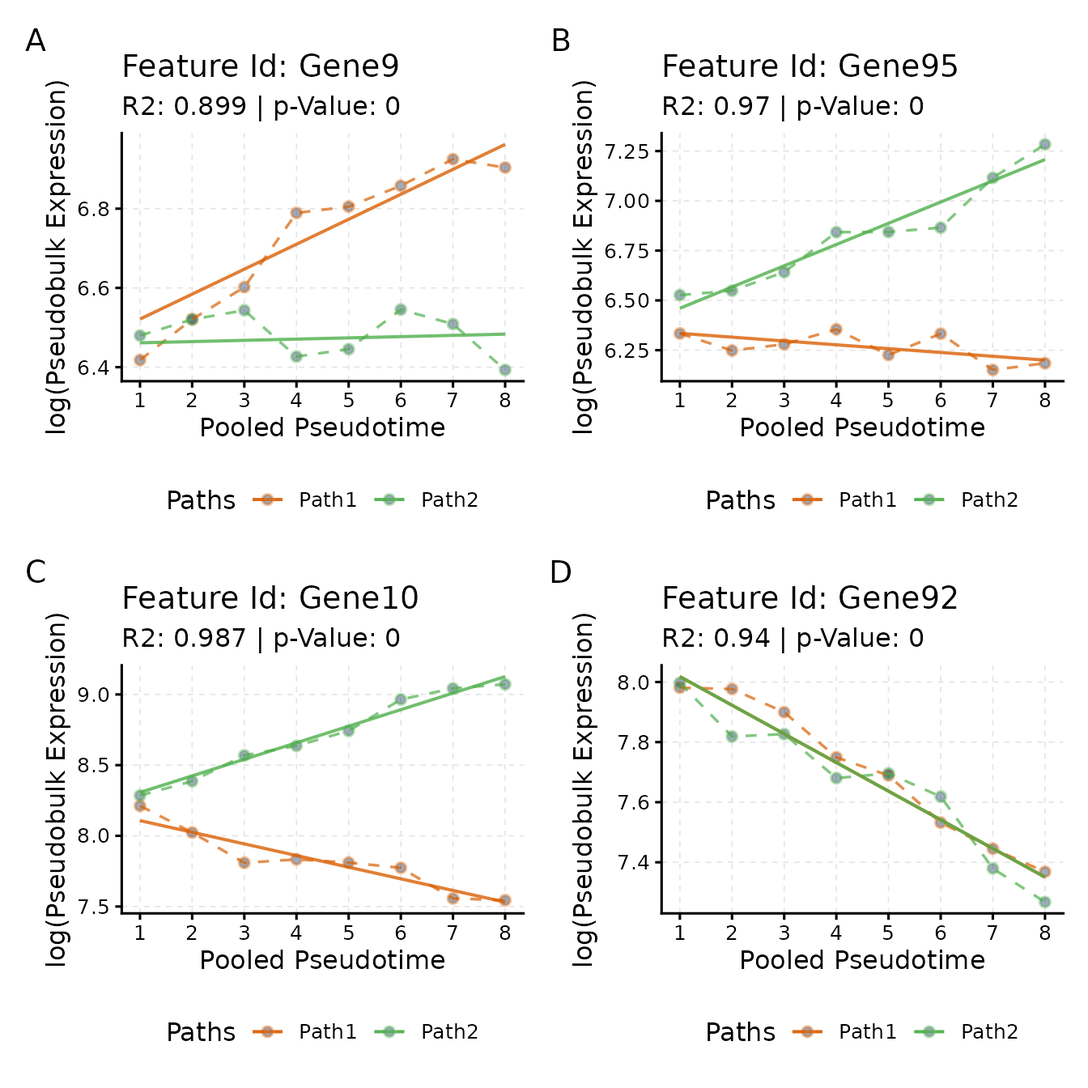
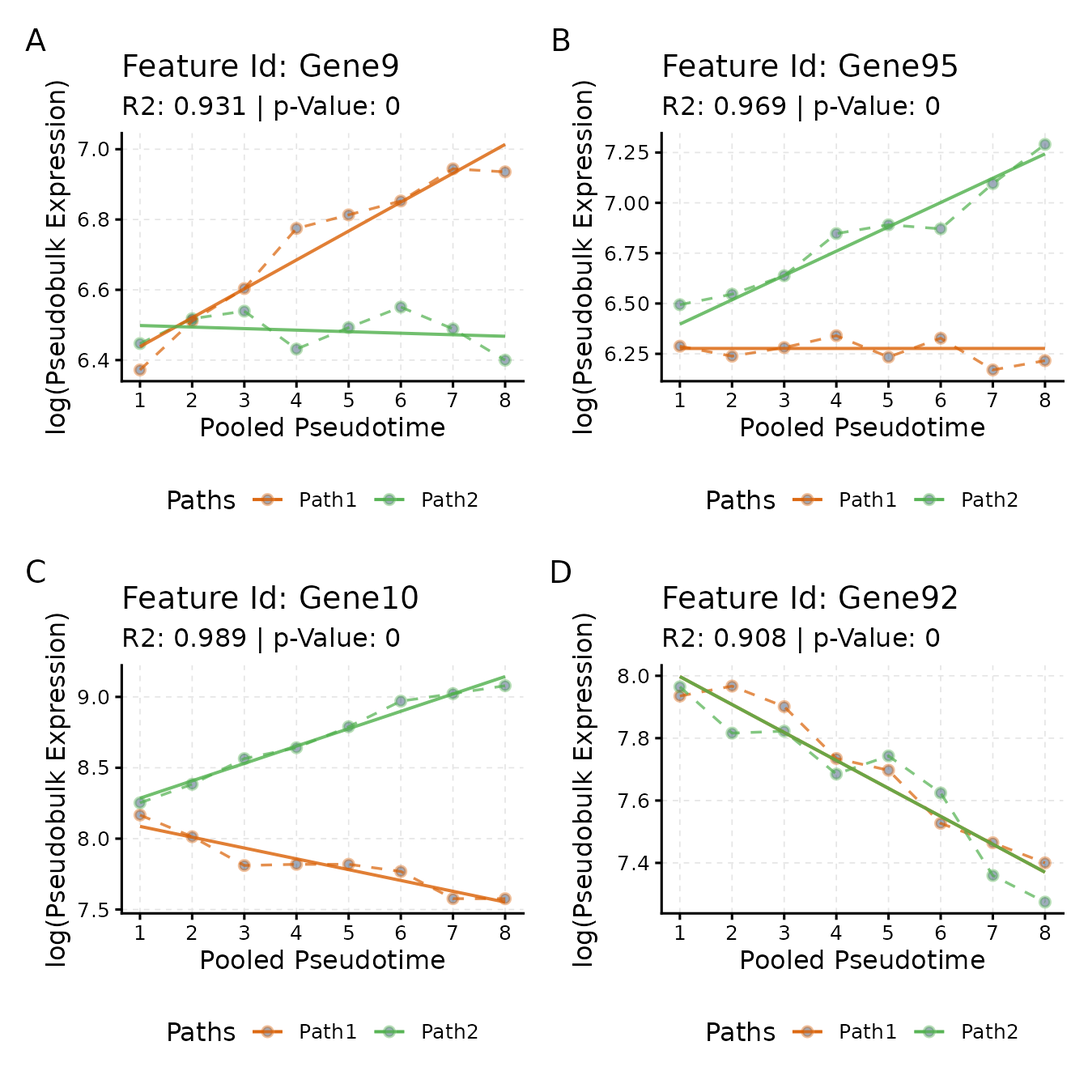
Deploying to gh-pages from @ spriyansh/scMaSigPro@2f24aa1d3274ee7afd888d2690c6e490eac4ce49 🚀

diff --git a/reference/scmpResults.html b/reference/scmpResults.html
@@ -142,12 +142,12 @@ left out. It stops if no gene matches.</p>
 <span class="r-out co"><span class="r-pr">#&gt;</span> DataFrame with 6 rows and 9 columns</span>
 <span class="r-out co"><span class="r-pr">#&gt;</span>           p_value adj_p_value  non_flat model_p_value r_squared influential</span>
 <span class="r-out co"><span class="r-pr">#&gt;</span>         &lt;numeric&gt;   &lt;numeric&gt; &lt;logical&gt;     &lt;numeric&gt; &lt;numeric&gt;   &lt;logical&gt;</span>
-<span class="r-out co"><span class="r-pr">#&gt;</span> Gene1 2.24231e-01 3.44971e-01     FALSE            NA        NA       FALSE</span>
-<span class="r-out co"><span class="r-pr">#&gt;</span> Gene2 1.29657e-13 4.80210e-13      TRUE   5.28134e-10  0.739054       FALSE</span>
-<span class="r-out co"><span class="r-pr">#&gt;</span> Gene3 2.47702e-24 1.17953e-23      TRUE   1.14934e-20  0.875897       FALSE</span>
-<span class="r-out co"><span class="r-pr">#&gt;</span> Gene4 1.33865e-55 1.21696e-54      TRUE   1.16032e-56  0.947483       FALSE</span>
-<span class="r-out co"><span class="r-pr">#&gt;</span> Gene5 3.51890e-02 6.63943e-02     FALSE            NA        NA       FALSE</span>
-<span class="r-out co"><span class="r-pr">#&gt;</span> Gene6 5.84810e-01 7.21988e-01     FALSE            NA        NA       FALSE</span>
+<span class="r-out co"><span class="r-pr">#&gt;</span> Gene1 2.21646e-01 3.46322e-01     FALSE            NA        NA       FALSE</span>
+<span class="r-out co"><span class="r-pr">#&gt;</span> Gene2 1.30835e-13 4.84576e-13      TRUE   1.60139e-09  0.726015       FALSE</span>
+<span class="r-out co"><span class="r-pr">#&gt;</span> Gene3 2.51249e-24 1.14204e-23      TRUE   3.98589e-20  0.873163       FALSE</span>
+<span class="r-out co"><span class="r-pr">#&gt;</span> Gene4 1.96112e-56 1.96112e-55      TRUE   1.23046e-66  0.955362       FALSE</span>
+<span class="r-out co"><span class="r-pr">#&gt;</span> Gene5 6.16240e-02 1.04447e-01     FALSE            NA        NA       FALSE</span>
+<span class="r-out co"><span class="r-pr">#&gt;</span> Gene6 5.80848e-01 7.21780e-01     FALSE            NA        NA       FALSE</span>
 <span class="r-out co"><span class="r-pr">#&gt;</span>       sig_Path2vsPath1 sig_Path1   cluster</span>
 <span class="r-out co"><span class="r-pr">#&gt;</span>              &lt;logical&gt; &lt;logical&gt; &lt;integer&gt;</span>
 <span class="r-out co"><span class="r-pr">#&gt;</span> Gene1            FALSE     FALSE        NA</span>
@@ -162,20 +162,20 @@ left out. It stops if no gene matches.</p>
 <span class="r-out co"><span class="r-pr">#&gt;</span> DataFrame with 6 rows and 9 columns</span>
 <span class="r-out co"><span class="r-pr">#&gt;</span>             p_value  adj_p_value  non_flat model_p_value r_squared influential</span>
 <span class="r-out co"><span class="r-pr">#&gt;</span>           &lt;numeric&gt;    &lt;numeric&gt; &lt;logical&gt;     &lt;numeric&gt; &lt;numeric&gt;   &lt;logical&gt;</span>
-<span class="r-out co"><span class="r-pr">#&gt;</span> Gene10 5.66016e-239 5.66016e-237      TRUE  9.21270e-219  0.987161       FALSE</span>
-<span class="r-out co"><span class="r-pr">#&gt;</span> Gene51 8.28782e-168 4.14391e-166      TRUE  2.39268e-104  0.975620       FALSE</span>
-<span class="r-out co"><span class="r-pr">#&gt;</span> Gene72  2.67274e-82  4.45456e-81      TRUE  1.46454e-101  0.975004       FALSE</span>
-<span class="r-out co"><span class="r-pr">#&gt;</span> Gene95 1.30299e-103 4.34331e-102      TRUE   8.35179e-92  0.969851       FALSE</span>
-<span class="r-out co"><span class="r-pr">#&gt;</span> Gene15  2.69805e-66  2.99783e-65      TRUE   1.65400e-74  0.966598       FALSE</span>
-<span class="r-out co"><span class="r-pr">#&gt;</span> Gene46  6.51202e-82  9.30289e-81      TRUE   5.52458e-80  0.965478       FALSE</span>
+<span class="r-out co"><span class="r-pr">#&gt;</span> Gene10 8.34110e-248 8.34110e-246      TRUE  7.18412e-269  0.989436       FALSE</span>
+<span class="r-out co"><span class="r-pr">#&gt;</span> Gene51 5.22783e-176 2.61392e-174      TRUE  5.22783e-176  0.985444       FALSE</span>
+<span class="r-out co"><span class="r-pr">#&gt;</span> Gene18  4.03251e-90  8.06502e-89      TRUE   1.78301e-94  0.971161       FALSE</span>
+<span class="r-out co"><span class="r-pr">#&gt;</span> Gene86  1.35821e-90  3.39552e-89      TRUE   9.68258e-97  0.970970       FALSE</span>
+<span class="r-out co"><span class="r-pr">#&gt;</span> Gene46  1.63491e-80  2.33559e-79      TRUE   1.14734e-86  0.968460       FALSE</span>
+<span class="r-out co"><span class="r-pr">#&gt;</span> Gene72  5.81817e-83  9.69695e-82      TRUE   2.55237e-69  0.961039       FALSE</span>
 <span class="r-out co"><span class="r-pr">#&gt;</span>        sig_Path2vsPath1 sig_Path1   cluster</span>
 <span class="r-out co"><span class="r-pr">#&gt;</span>               &lt;logical&gt; &lt;logical&gt; &lt;integer&gt;</span>
 <span class="r-out co"><span class="r-pr">#&gt;</span> Gene10             TRUE      TRUE         2</span>
 <span class="r-out co"><span class="r-pr">#&gt;</span> Gene51             TRUE      TRUE         2</span>
+<span class="r-out co"><span class="r-pr">#&gt;</span> Gene18             TRUE      TRUE         3</span>
+<span class="r-out co"><span class="r-pr">#&gt;</span> Gene86             TRUE      TRUE         3</span>
+<span class="r-out co"><span class="r-pr">#&gt;</span> Gene46             TRUE      TRUE         3</span>
 <span class="r-out co"><span class="r-pr">#&gt;</span> Gene72             TRUE      TRUE         2</span>
-<span class="r-out co"><span class="r-pr">#&gt;</span> Gene95             TRUE      TRUE         2</span>
-<span class="r-out co"><span class="r-pr">#&gt;</span> Gene15             TRUE      TRUE         2</span>
-<span class="r-out co"><span class="r-pr">#&gt;</span> Gene46             TRUE      TRUE         1</span>
 <span class="r-in"><span></span></span>
 <span class="r-in"><span><span class="co"># scmp.ob was made from the bundled splat.sim data set</span></span></span>
 <span class="r-in"><span><span class="fu"><a href="https://rdrr.io/r/utils/data.html" class="external-link">data</a></span><span class="op">(</span><span class="st">"splat.sim"</span>, package <span class="op">=</span> <span class="st">"scMaSigPro"</span><span class="op">)</span></span></span>
@@ -184,12 +184,12 @@ left out. It stops if no gene matches.</p>
 <span class="r-out co"><span class="r-pr">#&gt;</span> DataFrame with 6 rows and 2 columns</span>
 <span class="r-out co"><span class="r-pr">#&gt;</span>              Gene scmp_p_value</span>
 <span class="r-out co"><span class="r-pr">#&gt;</span>       &lt;character&gt;    &lt;numeric&gt;</span>
-<span class="r-out co"><span class="r-pr">#&gt;</span> Gene1       Gene1  2.24231e-01</span>
-<span class="r-out co"><span class="r-pr">#&gt;</span> Gene2       Gene2  1.29657e-13</span>
-<span class="r-out co"><span class="r-pr">#&gt;</span> Gene3       Gene3  2.47702e-24</span>
-<span class="r-out co"><span class="r-pr">#&gt;</span> Gene4       Gene4  1.33865e-55</span>
-<span class="r-out co"><span class="r-pr">#&gt;</span> Gene5       Gene5  3.51890e-02</span>
-<span class="r-out co"><span class="r-pr">#&gt;</span> Gene6       Gene6  5.84810e-01</span>
+<span class="r-out co"><span class="r-pr">#&gt;</span> Gene1       Gene1  2.21646e-01</span>
+<span class="r-out co"><span class="r-pr">#&gt;</span> Gene2       Gene2  1.30835e-13</span>
+<span class="r-out co"><span class="r-pr">#&gt;</span> Gene3       Gene3  2.51249e-24</span>
+<span class="r-out co"><span class="r-pr">#&gt;</span> Gene4       Gene4  1.96112e-56</span>
+<span class="r-out co"><span class="r-pr">#&gt;</span> Gene5       Gene5  6.16240e-02</span>
+<span class="r-out co"><span class="r-pr">#&gt;</span> Gene6       Gene6  5.80848e-01</span>
 <span class="r-in"><span></span></span>
 </code></pre></div>
     </div>

diff --git a/news/index.html b/news/index.html
@@ -86,6 +86,7 @@
 <code><a href="../reference/plotTrendCluster.html">plotTrendCluster()</a></code> loses its <code>parallel</code> argument, which had no effect; delete it from calls.</li>
 <li>
 <code>ScMaSigPro</code> objects have a new <code>version</code> slot, the version of scMaSigPro that created them, and an <code><a href="https://rdrr.io/pkg/BiocGenerics/man/updateObject.html" class="external-link">updateObject()</a></code> method brings objects saved by earlier versions up to date. An object saved with <code><a href="https://rdrr.io/r/base/readRDS.html" class="external-link">saveRDS()</a></code> or <code><a href="https://rdrr.io/r/base/save.html" class="external-link">save()</a></code> by scMaSigPro 0.0.5 or earlier has no <code>version</code> slot: printing it says so, the steps, <code><a href="../reference/pb_counts.html">pb_counts()</a></code>, the plots, <code><a href="../reference/queryCoeff.html">queryCoeff()</a></code> and the <code>show*()</code> helpers stop with “update it with updateObject() first”, and the setters stop with “slots in class definition but not in object:”version”“, until it is updated, for example with <code>ob &lt;- updateObject(readRDS("ob.rds"))</code>. Its data and results are kept. Objects binned by 0.0.4 cannot be updated because their <code>Dense</code> slot is invalid; <code><a href="https://rdrr.io/pkg/BiocGenerics/man/updateObject.html" class="external-link">updateObject()</a></code> stops with the command that bins their cells again with <code><a href="../reference/sc.squeeze.html">sc.squeeze()</a></code>, which replaces the 0.0.5 advice to run <code><a href="../reference/sc.squeeze.html">sc.squeeze()</a></code> on them directly. The bundled <code>scmp.ob</code> dataset is regenerated with the slot; its other slots are identical.</li>
+<li>The <code>log_offset</code> argument of <code><a href="../reference/sc.p.vector.html">sc.p.vector()</a></code> and <code><a href="../reference/sc.t.fit.html">sc.t.fit()</a></code> and the <code>log_offset</code> parameter are removed; delete <code>log_offset =</code> from calls. Objects saved with the parameter stop the steps with “update it with updateObject() first”. <code><a href="https://rdrr.io/pkg/BiocGenerics/man/updateObject.html" class="external-link">updateObject()</a></code> removes it and, when it was <code>FALSE</code>, replaces the stored size factors by their logarithm and warns that the fits must be run again.</li>
 </ul></li>
 <li>Changes affecting results
 <ul><li>The version number moves from 0.0.5 to 0.6.0, a minor release, because the changes in this section change the results of some analyses.</li>
@@ -102,7 +103,11 @@
 <li>
 <code>sc.squeeze(prune_bins = TRUE)</code> removes the bins of a path that hold fewer cells than the mean minus the standard deviation of the sizes of the path’s initial bins, empty bins included. The limit is no longer computed over the bins of all paths together after the split, nor made positive with <code><a href="https://rdrr.io/r/base/MathFun.html" class="external-link">abs()</a></code>.</li>
 <li>
-<code><a href="../reference/sc.squeeze.html">sc.squeeze()</a></code> with <code>bin_method = "Sturges"</code> rounds log2(n) + 1 up to a whole number of bins before it multiplies it by <code>drop_fac</code>, and rounds the product up as before; the bins of a split are counted the same way. The other rules, and <code>drop_fac = 1</code>, give the same number of bins as before.</li>
+<code><a href="../reference/sc.squeeze.html">sc.squeeze()</a></code> with <code>bin_method = "Sturges"</code> multiplies log2(n) + 1 by <code>drop_fac</code> and rounds the product up, as for the other rules, also for the bins of a split; it no longer rounds log2(n) + 1 up before <code>drop_fac</code>.</li>
+<li>The offset of <code><a href="../reference/sc.p.vector.html">sc.p.vector()</a></code> and <code><a href="../reference/sc.t.fit.html">sc.t.fit()</a></code> is the logarithm of the size factor of each bin. With the default <code>log_offset = FALSE</code> it was the size factor itself.</li>
+<li>
+<code><a href="../reference/sc.t.fit.html">sc.t.fit()</a></code> uses the offset that <code><a href="../reference/sc.p.vector.html">sc.p.vector()</a></code> computed from every gene it fitted and stored in the <code>Design</code> slot, instead of computing the size factors again from the non-flat genes. It computes the offset in the same way when the object has none.</li>
+<li>With <code>offset = TRUE</code>, <code><a href="../reference/sc.p.vector.html">sc.p.vector()</a></code> and <code><a href="../reference/sc.t.fit.html">sc.t.fit()</a></code> fit the raw counts, and the size factors are computed from the raw counts by the median-of-ratios method, over the genes without a zero count. Both used the counts plus 1. When every gene has a zero count in some bin, <code><a href="../reference/sc.p.vector.html">sc.p.vector()</a></code> stops with an error that suggests fewer bins or <code>offset = FALSE</code>.</li>
 </ul></li>
 <li>New features
 <ul><li>
@@ -193,6 +198,8 @@
 <code>sc.squeeze(split_bins = TRUE)</code> no longer removes cells from the object. A bin with too many cells was split between the rounded bounds of the labels of <code><a href="https://rdrr.io/r/base/cut.html" class="external-link">cut()</a></code>, so a cell just outside them was in none of the new bins and was removed from the <code>Sparse</code> slot with the warning “cell(s) could not be assigned to a bin”: 3 of the 1977 cells of <code>multi.lin.sce</code> with the default rule and up to 212 with the others. When the rounded bounds of a bin held none of its cells, the split failed with “‘from’ must be a finite number”. The new bins of a split now hold every cell of the bin they split, and cover it without gaps: the first starts at its lower bound and the last ends at its upper bound, where they spanned only the range of its cells.</li>
 <li>
 <code>sc.squeeze(split_bins = TRUE)</code> failed with “missing value where TRUE/FALSE needed” when the rule gave a path a single bin, as <code>"Freedman.Diaconis"</code> does for a path whose pseudotime has an interquartile range of 0: a split takes the bins larger than the mean plus the standard deviation of the bin sizes of their path, and the size of a single bin has no standard deviation. Such a path now keeps its bin.</li>
+<li>
+<code>sc.p.vector(offset = FALSE)</code> and <code>sc.t.fit(offset = FALSE)</code> no longer leave the offset of an earlier fit in the <code>Design</code> slot, and <code><a href="../reference/sc.set.poly.html">sc.set.poly()</a></code> stores no offset. <code><a href="../reference/plotTrend.html">plotTrend()</a></code> and <code><a href="../reference/plotTrendCluster.html">plotTrendCluster()</a></code> divide the points by the size factors only when the fits used the offset; they divided them by an offset left by an earlier fit. <code><a href="https://rdrr.io/pkg/BiocGenerics/man/updateObject.html" class="external-link">updateObject()</a></code> removes such offsets from saved objects.</li>
 </ul></li>
 <li>Dependency Changes
 <ul><li>

diff --git a/articles/Common-Root-Cells.html b/articles/Common-Root-Cells.html
@@ -427,15 +427,15 @@ set.</p>
 <code class="sourceCode R"><span><span class="va">shared_genes</span> <span class="op">&lt;-</span> <span class="fu"><a href="../reference/plotIntersect.html">plotIntersect</a></span><span class="op">(</span><span class="va">multi_scmp_ob_A</span>, return <span class="op">=</span> <span class="cn">TRUE</span><span class="op">)</span></span>
 <span><span class="fu"><a href="https://rdrr.io/r/utils/head.html" class="external-link">head</a></span><span class="op">(</span><span class="va">shared_genes</span><span class="op">)</span></span></code></pre></div>
 <pre><code><span><span class="co">##     Y_15vsRoot Y_18vsRoot Y_18_links_Y_15vsRoot Y_52vsRoot Root</span></span>
-<span><span class="co">## G2           1          1                     1          1    1</span></span>
-<span><span class="co">## G3           1          1                     1          1    1</span></span>
+<span><span class="co">## G1           1          1                     1          1    0</span></span>
+<span><span class="co">## G5           1          1                     1          1    0</span></span>
 <span><span class="co">## G7           1          1                     1          1    1</span></span>
-<span><span class="co">## G9           1          1                     1          1    1</span></span>
-<span><span class="co">## G10          1          1                     1          1    1</span></span>
-<span><span class="co">## G11          1          1                     1          1    1</span></span></code></pre>
+<span><span class="co">## G10          1          0                     1          1    1</span></span>
+<span><span class="co">## G11          1          1                     1          1    0</span></span>
+<span><span class="co">## G12          1          1                     1          1    1</span></span></code></pre>
 <div class="sourceCode" id="cb20"><pre class="downlit sourceCode r">
 <code class="sourceCode R"><span><span class="va">n_shared</span> <span class="op">&lt;-</span> <span class="fu"><a href="https://rdrr.io/r/base/sum.html" class="external-link">sum</a></span><span class="op">(</span><span class="fu"><a href="https://rdrr.io/r/base/colSums.html" class="external-link">rowSums</a></span><span class="op">(</span><span class="va">shared_genes</span><span class="op">)</span> <span class="op">==</span> <span class="fu"><a href="https://rdrr.io/r/base/nrow.html" class="external-link">ncol</a></span><span class="op">(</span><span class="va">shared_genes</span><span class="op">)</span><span class="op">)</span></span></code></pre></div>
-<p>In the upset plot above, we can see that there are 301 genes which
+<p>In the upset plot above, we can see that there are 109 genes which
 change among all branches and also change with pseudotime. We will
 explore them later. First, let’s look at the genes that have similar
 expression in the <code>Root</code>, the link segment and the
@@ -452,17 +452,17 @@ expression in the <code>Root</code>, the link segment and the
 <span>        <span class="va">shared_genes</span><span class="op">$</span><span class="va">Y_18_links_Y_15vsRoot</span> <span class="op">==</span> <span class="fl">0</span></span>
 <span><span class="op">]</span></span>
 <span><span class="fu"><a href="https://rdrr.io/r/utils/head.html" class="external-link">head</a></span><span class="op">(</span><span class="va">gene_br_Y_15</span><span class="op">)</span></span></code></pre></div>
-<pre><code><span><span class="co">## [1] "G71"  "G169"</span></span></code></pre>
+<pre><code><span><span class="co">## [1] "G51"  "G73"  "G149" "G218" "G400" "G422"</span></span></code></pre>
 <div class="sourceCode" id="cb23"><pre class="downlit sourceCode r">
 <code class="sourceCode R"><span><span class="fu"><a href="../reference/plotTrend.html">plotTrend</a></span><span class="op">(</span><span class="va">multi_scmp_ob_A</span>, feature_id <span class="op">=</span> <span class="va">gene_br_Y_15</span><span class="op">[</span><span class="fl">1</span><span class="op">]</span>, points <span class="op">=</span> <span class="cn">FALSE</span>, lines <span class="op">=</span> <span class="cn">TRUE</span><span class="op">)</span></span></code></pre></div>
 <p><img src="Common-Root-Cells_files/figure-html/sample-gene-1.png" class="r-plt" alt="Trend of one gene with similar expression in root, link and Y_15" width="768" style="display: block; margin: auto;"></p>
-<p>In the above plot, we can see that the gene G71 has a similar
+<p>In the above plot, we can see that the gene G51 has a similar
 expression in <code>Root</code>, the link segment and <code>Y_15</code>.
 This is a good example of how <code>scMaSigPro</code> can be used to
 identify genes that show similar patterns in the common root cells and
 how different they are in other branches. The main idea is to set the
 root as a reference and then compare the branches to the root.</p>
-<p>Next we can explore the 301 genes that we have in the intersection.
+<p>Next we can explore the 109 genes that we have in the intersection.
 As it is hard to see them all at once, we will first perform clustering
 and then look at them in groups.</p>
 <div class="sourceCode" id="cb24"><pre class="downlit sourceCode r">

diff --git a/reference/sc.p.vector.html b/reference/sc.p.vector.html
@@ -85,7 +85,6 @@ model.</p>
 <span>  epsilon <span class="op">=</span> <span class="fl">1e-08</span>,</span>
 <span>  verbose <span class="op">=</span> <span class="cn">TRUE</span>,</span>
 <span>  offset <span class="op">=</span> <span class="cn">TRUE</span>,</span>
-<span>  log_offset <span class="op">=</span> <span class="cn">FALSE</span>,</span>
 <span>  max_it <span class="op">=</span> <span class="fl">100</span>,</span>
 <span>  link <span class="op">=</span> <span class="st">"log"</span>,</span>
 <span>  theta_estimate <span class="op">=</span> <span class="st">"none"</span>,</span>
@@ -151,15 +150,10 @@ own link.</p></dd>
 
 <dt id="arg-offset">offset<a class="anchor" aria-label="anchor" href="#arg-offset"></a></dt>
 <dd><p>logical value specifying whether to use offset during fitting.
-The offset, the size factor of each bin (or its logarithm, see
-<code>log_offset</code>), is added to the linear predictor, where it scales the
-fitted mean under the log link only: with any other link the fits stop
-with an error unless <code>offset = FALSE</code>.</p></dd>
-
-
-<dt id="arg-log-offset">log_offset<a class="anchor" aria-label="anchor" href="#arg-log-offset"></a></dt>
-<dd><p>A logical value specifying whether to take the logarithm of
-the offsets.</p></dd>
+The offset of each bin, the logarithm of its size factor (see Details), is
+added to the linear predictor, where it scales the fitted mean under the
+log link only: with any other link the fits stop with an error unless
+<code>offset = FALSE</code>.</p></dd>
 
 
 <dt id="arg-max-it">max_it<a class="anchor" aria-label="anchor" href="#arg-max-it"></a></dt>
@@ -202,7 +196,23 @@ slot.</p>
     </div>
     <div id="details">
     <h2>Details</h2>
-    <p>Genes are left out of the fit when they have fewer than <code>min_na</code> values,
+    <p>With <code>offset = TRUE</code>, the fits include an offset as Srivastava et al.
+(2024), Section 2.3 and Supplementary Section S1.3, describe it:
+"scMaSigPro incorporates an offset value to the Poly-GLM model to adjust
+for disparities in total read counts per bin. This offset is calculated
+as the logarithm of size factors for each bin". The size factors are those
+of the median-of-ratios method of Love, Huber and Anders (2014), on the
+raw counts: "The size factor for each bin is the median of the ratios of
+its counts to the geometric means for each gene". Only the genes with a
+count above 0 in every bin have a geometric mean above 0 and enter the
+medians. The genes are fitted on their raw counts, without a pseudo-count:
+"scMaSigPro can directly process raw counts". When every gene has a zero
+count in some bin, the size factors cannot be computed and the fit stops
+with an error: fewer and larger bins (see <code><a href="sc.squeeze.html">sc.squeeze()</a></code>) can leave genes
+without a zero count, and <code>offset = FALSE</code> fits without the offset. The
+offsets are stored in the <code>Design</code> slot, where <code><a href="sc.t.fit.html">sc.t.fit()</a></code> finds them;
+with <code>offset = FALSE</code> no offset is stored.</p>
+<p>Genes are left out of the fit when they have fewer than <code>min_na</code> values,
 when all their counts are zero, and when they are below <code>min_counts</code> or
 <code>min_bins_expressed</code>. Genes left out have no p-value and do not count in
 the multiple-testing correction; <code><a href="scmpResults.html">scmpResults()</a></code> gives them <code>NA</code>. The size
@@ -216,6 +226,9 @@ only through the multiple-testing correction.</p>
     <p>Conesa, A., Nueda M.J., Alberto Ferrer, A., Talon, T. 2006.
 maSigPro: a Method to Identify Significant Differential Expression Profiles
 in Time-Course Microarray Experiments. Bioinformatics 22, 1096-1102</p>
+<p>Love, M.I., Huber, W. and Anders, S. (2014). Moderated estimation of fold
+change and dispersion for RNA-seq data with DESeq2. Genome Biology 15, 550.
+<a href="https://doi.org/10.1186/s13059-014-0550-8" class="external-link">doi:10.1186/s13059-014-0550-8</a></p>
     </div>
     <div id="see-also">
     <h2>See also</h2>

diff --git a/articles/scMaSigPro-Class.html b/articles/scMaSigPro-Class.html
@@ -407,10 +407,10 @@ rather than their independent contributions.</p></li>
 <span><span class="co"># View</span></span>
 <span><span class="fu"><a href="https://rdrr.io/r/utils/head.html" class="external-link">head</a></span><span class="op">(</span><span class="va">pTime_up</span>, <span class="fl">4</span><span class="op">)</span></span></code></pre></div>
 <pre><code><span><span class="co">##        betascmp_binned_pseudotime</span></span>
-<span><span class="co">## Gene46                 0.11716106</span></span>
-<span><span class="co">## Gene86                 0.11590683</span></span>
-<span><span class="co">## Gene18                 0.08197727</span></span>
-<span><span class="co">## Gene89                 0.06633323</span></span></code></pre>
+<span><span class="co">## Gene46                 0.12313411</span></span>
+<span><span class="co">## Gene86                 0.12192126</span></span>
+<span><span class="co">## Gene18                 0.08788562</span></span>
+<span><span class="co">## Gene9                  0.08220353</span></span></code></pre>
 <div class="sourceCode" id="cb18"><pre class="downlit sourceCode r">
 <code class="sourceCode R"><span><span class="co"># Plot</span></span>
 <span><span class="va">pTime_up.plots</span> <span class="op">&lt;-</span> <span class="fu"><a href="https://rdrr.io/r/base/list.html" class="external-link">list</a></span><span class="op">(</span><span class="op">)</span></span>
@@ -440,10 +440,10 @@ rather than their independent contributions.</p></li>
 <span><span class="co"># View</span></span>
 <span><span class="fu"><a href="https://rdrr.io/r/utils/head.html" class="external-link">head</a></span><span class="op">(</span><span class="va">pTime_path_up</span>, <span class="fl">4</span><span class="op">)</span></span></code></pre></div>
 <pre><code><span><span class="co">##        betascmp_binned_pseudotimexPath2</span></span>
-<span><span class="co">## Gene10                        0.1994188</span></span>
-<span><span class="co">## Gene95                        0.1259134</span></span>
-<span><span class="co">## Gene3                         0.1140589</span></span>
-<span><span class="co">## Gene72                        0.1098556</span></span></code></pre>
+<span><span class="co">## Gene10                        0.1988885</span></span>
+<span><span class="co">## Gene95                        0.1208070</span></span>
+<span><span class="co">## Gene3                         0.1143646</span></span>
+<span><span class="co">## Gene4                         0.1064389</span></span></code></pre>
 <div class="sourceCode" id="cb23"><pre class="downlit sourceCode r">
 <code class="sourceCode R"><span><span class="co"># Plot</span></span>
 <span><span class="va">pTime_path_up.plots</span> <span class="op">&lt;-</span> <span class="fu"><a href="https://rdrr.io/r/base/list.html" class="external-link">list</a></span><span class="op">(</span><span class="op">)</span></span>

diff --git a/reference/sc.t.fit.html b/reference/sc.t.fit.html
@@ -85,7 +85,6 @@ from the full polynomial model. This function is succeeded by
 <span>  epsilon <span class="op">=</span> <span class="va">scmpObj</span><span class="op">@</span><span class="va">Parameters</span><span class="op">@</span><span class="va">epsilon</span>,</span>
 <span>  offset <span class="op">=</span> <span class="va">scmpObj</span><span class="op">@</span><span class="va">Parameters</span><span class="op">@</span><span class="va">offset</span>,</span>
 <span>  verbose <span class="op">=</span> <span class="cn">TRUE</span>,</span>
-<span>  log_offset <span class="op">=</span> <span class="va">scmpObj</span><span class="op">@</span><span class="va">Parameters</span><span class="op">@</span><span class="va">log_offset</span>,</span>
 <span>  max_it <span class="op">=</span> <span class="va">scmpObj</span><span class="op">@</span><span class="va">Parameters</span><span class="op">@</span><span class="va">max_it</span>,</span>
 <span>  link <span class="op">=</span> <span class="va">scmpObj</span><span class="op">@</span><span class="va">Parameters</span><span class="op">@</span><span class="va">link</span>,</span>
 <span>  BPPARAM <span class="op">=</span> <span class="fu">SerialParam</span><span class="op">(</span><span class="op">)</span></span>
@@ -125,17 +124,15 @@ link. When <code><a href="sc.p.vector.html">sc.p.vector()</a></code> estimated o
 
 
 <dt id="arg-offset">offset<a class="anchor" aria-label="anchor" href="#arg-offset"></a></dt>
-<dd><p>A logical value specifying whether to use offset during fitting.
-As in <code><a href="sc.p.vector.html">sc.p.vector()</a></code>, <code>offset = TRUE</code> needs the log link.</p></dd>
+<dd><p>A logical value specifying whether to use offset during
+fitting: the logarithm of the size factor of each bin, which needs the log
+link. The fits use the offsets that <code><a href="sc.p.vector.html">sc.p.vector()</a></code> computed from
+every gene it fitted and stored in the <code>Design</code> slot; when it stored none
+(<code>offset = FALSE</code>), they are computed here in the same way.</p></dd>
 
 
 <dt id="arg-verbose">verbose<a class="anchor" aria-label="anchor" href="#arg-verbose"></a></dt>
 <dd><p>Print detailed output in the console. (Default is TRUE)</p></dd>
-
-
-<dt id="arg-log-offset">log_offset<a class="anchor" aria-label="anchor" href="#arg-log-offset"></a></dt>
-<dd><p>A logical value specifying whether to take the logarithm of
-the offsets.</p></dd>
 
 
 <dt id="arg-max-it">max_it<a class="anchor" aria-label="anchor" href="#arg-max-it"></a></dt>

diff --git a/reference/estBinSize.html b/reference/estBinSize.html
@@ -94,9 +94,9 @@ need to be binned.</p></dd>
 
 <dt id="arg-drop-fac">drop_fac<a class="anchor" aria-label="anchor" href="#arg-drop-fac"></a></dt>
 <dd><p>A numeric. A factor to adjust the estimated number of bins:
-the number of bins given by the rule (for "Sturges", rounded up to a whole
-number) is multiplied by this value. Values below 1 give fewer, wider
-bins, which helps when the rule gives too many empty bins.</p></dd>
+the number of bins given by the rule is multiplied by this value. Values
+below 1 give fewer, wider bins, which helps when the rule gives too many
+empty bins.</p></dd>
 
 
 <dt id="arg-bin-method">bin_method<a class="anchor" aria-label="anchor" href="#arg-bin-method"></a></dt>
@@ -108,8 +108,7 @@ bins. Possible values include "Freedman.Diaconis", "Sqrt", "Sturges",
     <div id="value">
     <h2>Value</h2>
     <p>A number: the number of bins given by the rule, multiplied by <code>drop_fac</code>.
-Only the Sturges number of bins is rounded up before; the product is not
-rounded, and <code><a href="sc.squeeze.html">sc.squeeze()</a></code> rounds it up with <code><a href="https://rdrr.io/r/base/Round.html" class="external-link">ceiling()</a></code>.</p>
+It is not rounded; <code><a href="sc.squeeze.html">sc.squeeze()</a></code> rounds it up with <code><a href="https://rdrr.io/r/base/Round.html" class="external-link">ceiling()</a></code>.</p>
     </div>
     <div id="details">
     <h2>Details</h2>
@@ -121,10 +120,12 @@ interquartile range of the points (Freedman and Diaconis, 1981).</p></dd>
 <dd><p>sqrt(n) bins.</p></dd>
 
 <dt>"Sturges"</dt>
-<dd><p>log2(n) + 1 bins (Sturges, 1926), rounded up to a whole
-number, as in Srivastava et al. (2024), Section 2.1, where the number of
-bins is \([\log_2(N)+1] \times k\), "where k ... is a
-drop-factor, and [log2(N)+1] is the 'Sturges' formula".</p></dd>
+<dd><p>log2(n) + 1 bins (Sturges, 1926). Srivastava et al.
+(2024), Supplementary Section S1.1, writes the number of bins as
+\(B = [(\log_2(N)+1) \times k]\), with k the
+drop factor of their Section 2.1, and every other rule the same way,
+with the brackets around the whole product: the rule times <code>drop_fac</code>
+is rounded up.</p></dd>
 
 <dt>"Rice"</dt>
 <dd><p>2 n^(1/3) bins.</p></dd>

diff --git a/articles/Basic-Workflow.html b/articles/Basic-Workflow.html
@@ -369,8 +369,7 @@ fitting.</p>
 <div class="sourceCode" id="cb20"><pre class="downlit sourceCode r">
 <code class="sourceCode R"><span><span class="co"># Detect non-flat profiles</span></span>
 <span><span class="va">scmp_ob</span> <span class="op">&lt;-</span> <span class="fu"><a href="../reference/sc.p.vector.html">sc.p.vector</a></span><span class="op">(</span><span class="va">scmp_ob</span>,</span>
-<span>    offset <span class="op">=</span> <span class="cn">TRUE</span>, p_value <span class="op">=</span> <span class="fl">0.05</span>, verbose <span class="op">=</span> <span class="cn">FALSE</span>,</span>
-<span>    log_offset <span class="op">=</span> <span class="cn">TRUE</span></span>
+<span>    offset <span class="op">=</span> <span class="cn">TRUE</span>, p_value <span class="op">=</span> <span class="fl">0.05</span>, verbose <span class="op">=</span> <span class="cn">FALSE</span></span>
 <span><span class="op">)</span></span>
 <span><span class="va">scmp_ob</span></span></code></pre></div>
 <pre><code><span><span class="co">## Class: ScMaSigProClass</span></span>
@@ -473,11 +472,11 @@ will make an upset plot:</p>
 <span><span class="co">## <span style="color: #555555;">Call `lifecycle::last_lifecycle_warnings()` to see where this warning was</span></span></span>
 <span><span class="co">## <span style="color: #555555;">generated.</span></span></span></code></pre>
 <p><img src="Basic-Workflow_files/figure-html/uspet-1.png" class="r-plt" alt="" width="768"></p>
-<p>Here, we observe that 24 genes belong to both Path2vsPath1 and Path1,
+<p>Here, we observe that 21 genes belong to both Path2vsPath1 and Path1,
 indicating that these genes not only change along pseudotime but also
 exhibit significantly different expression between the two paths.
-Additionally, there are 9 genes uniquely associated with Path2vsPath1.
-This implies that Path2 has 9 genes that are significantly
+Additionally, there are 13 genes uniquely associated with Path2vsPath1.
+This implies that Path2 has 13 genes that are significantly
 differentially expressed over time, using Path1 genes as a reference.
 Let’s explore a few of these genes:</p>
 <div class="sourceCode" id="cb29"><pre class="downlit sourceCode r">

diff --git a/reference/updateObject-ScMaSigPro-method.html b/reference/updateObject-ScMaSigPro-method.html
@@ -117,6 +117,15 @@ of the package, is returned unchanged.</p>
 parameters existed get both set to 0, the values that keep every gene
 (<code><a href="sc.p.vector.html">sc.p.vector()</a></code> had no such filter then), and the version of the
 package that is running.</p>
+<p>Objects saved with the <code>log_offset</code> parameter lose it. The fits of an
+object saved with <code>log_offset = FALSE</code>, the default, used the size factor
+of each bin as the offset: <code>updateObject()</code> stores the logarithm of the
+size factors instead, the offset of <code><a href="sc.p.vector.html">sc.p.vector()</a></code> and <code><a href="sc.t.fit.html">sc.t.fit()</a></code>, and
+warns that the fits in the <code>Profile</code> and <code>Estimate</code> slots were made with
+the size factors, until <code><a href="sc.p.vector.html">sc.p.vector()</a></code> is run again. The offsets of an
+object saved with <code>log_offset = TRUE</code> are kept. An object whose fits used
+no offset, or that was not fitted, keeps no offset: the offsets that an
+earlier fit left in it, or the zeros of <code><a href="sc.set.poly.html">sc.set.poly()</a></code>, are removed.</p>
 <p>Objects fitted with <code>link = "identity"</code> by scMaSigPro 0.0.5 or earlier
 hold a family labelled with the identity link but with the link functions
 of the log link, with which their fits were made: <code>updateObject()</code> warns,

diff --git a/reference/MatrixDesign-class.html b/reference/MatrixDesign-class.html
@@ -75,8 +75,9 @@
     <div id="details">
     <h2>Details</h2>
     <p><code>validObject()</code> checks that <code>assignment_matrix</code> has the rows of
-<code>predictor_matrix</code> (one per bin), that <code>offset</code> has one value per row and
-that <code>groups.vector</code> has one value per column of <code>predictor_matrix</code>.</p>
+<code>predictor_matrix</code> (one per bin), that <code>offset</code> is empty or has one value
+per row and that <code>groups.vector</code> has one value per column of
+<code>predictor_matrix</code>.</p>
     </div>
     <div id="slots">
     <h2>Slots</h2>
@@ -99,7 +100,9 @@ replicate.</p></dd>
 
 
 <dt><code>offset</code></dt>
-<dd><p>A numeric vector containing the offset values.</p></dd>
+<dd><p>The offset of each bin, the logarithm of its size factor (see
+<code><a href="sc.p.vector.html">sc.p.vector()</a></code>), or an empty vector when the fits used no offset or no
+fit was made yet.</p></dd>
 
 
 </dl></div>

diff --git a/reference/sc.squeeze.html b/reference/sc.squeeze.html
@@ -153,9 +153,8 @@ binning. Available options: "Freedman.Diaconis",
 <dd><p>A numeric value specifying the factor by which to adjust the
 number of bins if the initial binning results in too many/few bins: the
 drop factor of Srivastava et al. (2024), Section 2.1, at least 0.3. The
-number of bins that <code>bin_method</code> gives a path (for "Sturges", rounded up to
-a whole number) is multiplied by <code>drop_fac</code> and rounded up (see
-<code><a href="estBinSize.html">estBinSize()</a></code>). (Default = 1).</p></dd>
+number of bins that <code>bin_method</code> gives a path is multiplied by <code>drop_fac</code>
+and the product is rounded up (see <code><a href="estBinSize.html">estBinSize()</a></code>). (Default = 1).</p></dd>
 
 
 <dt id="arg-verbose">verbose<a class="anchor" aria-label="anchor" href="#arg-verbose"></a></dt>

diff --git a/reference/ParameterConfig-class.html b/reference/ParameterConfig-class.html
@@ -173,12 +173,8 @@ regression.</p></dd>
 
 
 <dt><code>offset</code></dt>
-<dd><p>A logical value specifying whether to use offset during fitting.</p></dd>
-
-
-<dt><code>log_offset</code></dt>
-<dd><p>A logical value specifying whether to take the logarithm of
-the offsets.</p></dd>
+<dd><p>A logical value, whether the fits used the offset of each bin,
+the logarithm of its size factor (see <code><a href="sc.p.vector.html">sc.p.vector()</a></code>).</p></dd>
 
 
 <dt><code>max_it</code></dt>
